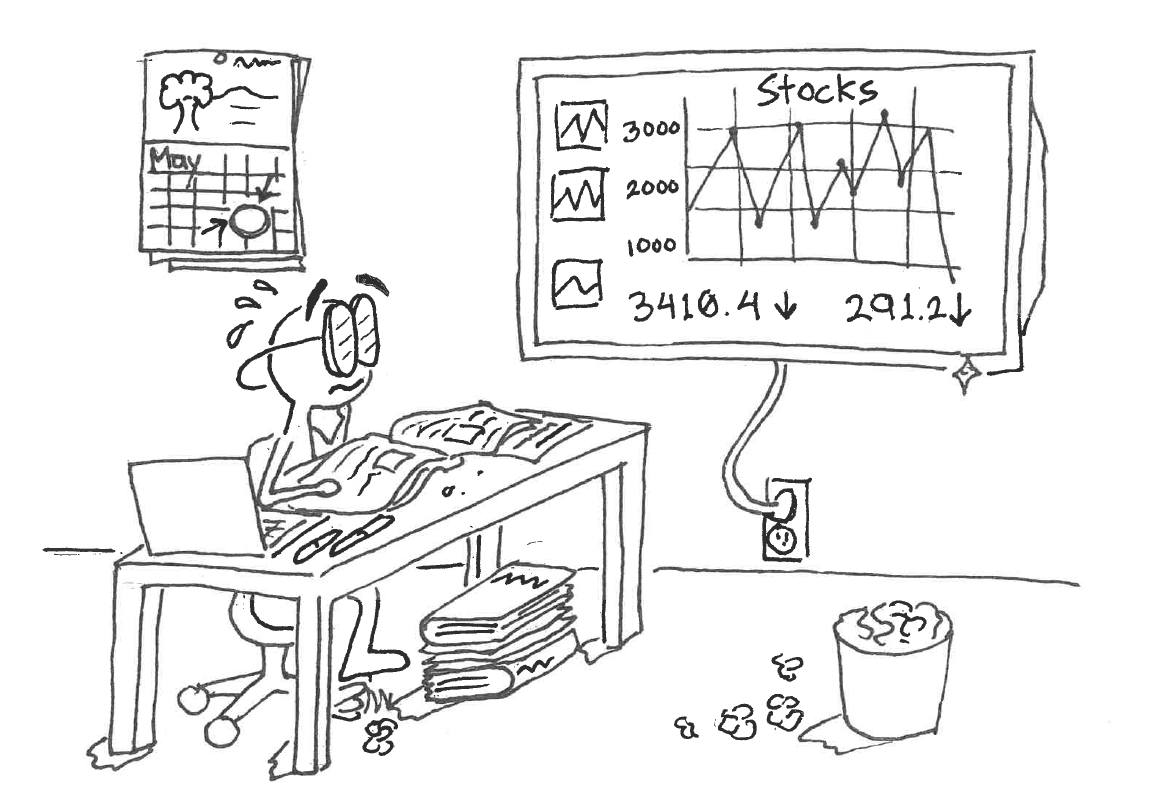
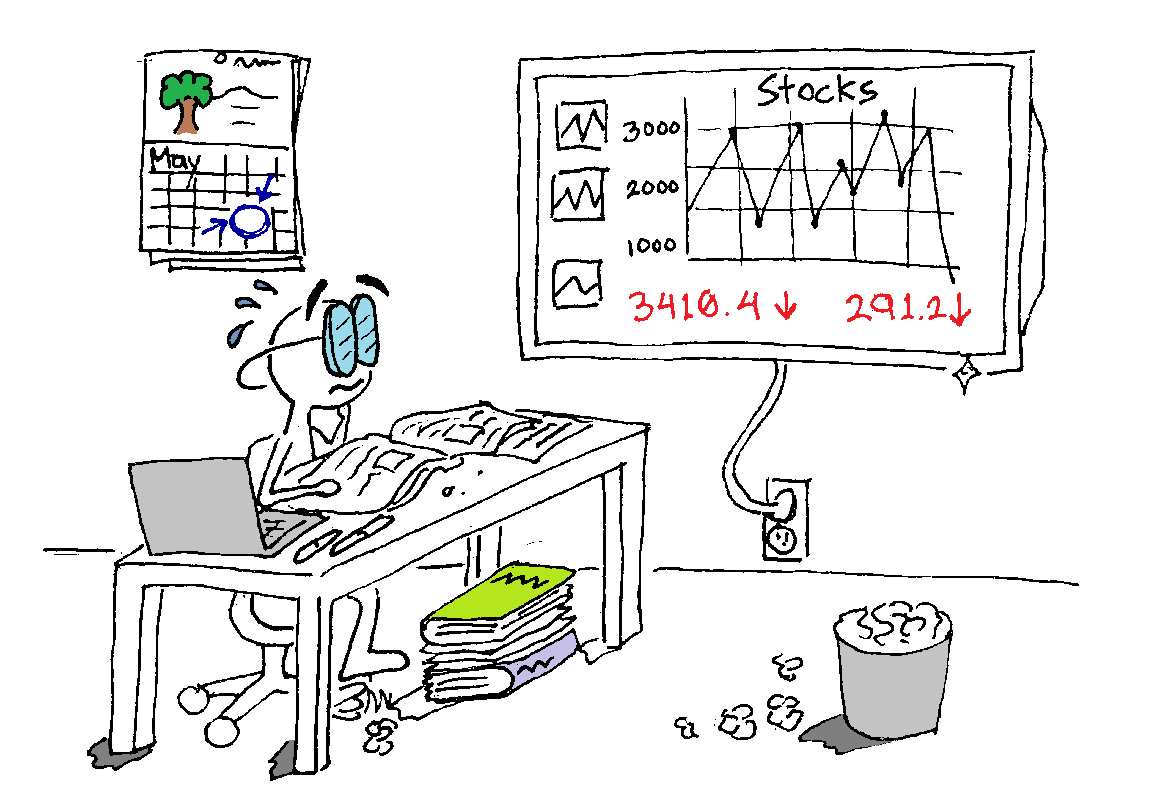
Converted images to black-and-white and gave them a little color as well

Changed region(s): [[0.0623, 0.0623, 0.7481, 0.9651], [0.4364, 0.0623, 0.9039, 0.5293], [0.5922, 0.7161, 0.9351, 0.934]]

diff --git a/EduSafe.WebSite/src/index.html b/EduSafe.WebSite/src/index.html
@@ -4,7 +4,7 @@
   <meta charset="utf-8">
   <title>Edu$afe</title>
   <base href="/">
-  <meta name="viewport" content="width=device-width, initial-scale=1.0">
+  <meta name="viewport" content="width=device-width, initial-scale=1.0, maximum-scale=1, user-scalable=no">
   <link rel="icon" type="image/x-icon" href="favicon.ico">
 </head>
 <body>

diff --git a/EduSafe.WebSite/src/app/styles/app-root.component.css b/EduSafe.WebSite/src/app/styles/app-root.component.css
@@ -9,7 +9,7 @@ h1 {
 
 h3 {
   color: #808080;
-  font-family: Helvetica, Arial, sans-serif;
+  font-family: Tahoma, Geneva, sans-serif;
   font-size: 120%;
   font-weight: bold;
   margin-right: 1em;

diff --git a/EduSafe.ConsoleApp/Scripts/ConvertToBlackWhiteScript.cs b/EduSafe.ConsoleApp/Scripts/ConvertToBlackWhiteScript.cs
@@ -1,0 +1,129 @@
+using System;
+using System.Collections.Generic;
+using System.Drawing;
+using System.Drawing.Imaging;
+using System.Linq;
+using EduSafe.ConsoleApp.Interfaces;
+
+namespace EduSafe.ConsoleApp.Scripts
+{
+    /// <summary>
+    /// This is totally and completely code I stole from searching online.
+    /// Thank you random kindness of strangers!
+    /// </summary>
+    public class ConvertToBlackWhiteScript : IScript
+    {
+        public List<string> GetArgumentsList()
+        {
+            return new List<string>
+            {
+                "[1] Enter path to the image to convert",
+            };
+        }
+
+        public string GetFriendlyName()
+        {
+            return "Black & White Converter Tool";
+        }
+
+        public bool GetVisibilityStatus()
+        {
+            return false;
+        }
+
+        public void RunScript(string[] args)
+        {
+            var extension = args[1].Split('.').ToList().Last();
+            var basePath = new string(args[1].Take(args[1].Length - extension.Length - 1).ToArray());
+
+            var image = Image.FromFile(args[1]) as Bitmap;
+            var newImage = ConvertBlackAndWhitePixelByPixel(image);
+            newImage.Save(basePath + " - (B & W)." + extension);
+        }
+
+        /// <summary>
+        /// https://stackoverflow.com/questions/2746103/what-would-be-a-good-true-black-and-white-colormatrix
+        /// </summary>
+        public static Bitmap ConvertBlackAndWhiteWithMatrix(Bitmap image)
+        {
+            var tempMatrix = new ColorMatrix
+            {
+                Matrix = new float[][]{
+                    new float[] { 0.299f, 0.299f, 0.299f, 0, 0 },
+                    new float[] { 0.587f, 0.587f, 0.587f, 0, 0 },
+                    new float[] { 0.114f, 0.114f, 0.114f, 0, 0 },
+                    new float[] { 0,      0,      0,      1, 0 },
+                    new float[] { 0,      0,      0,      0, 1 }
+                 }
+            };
+
+            return tempMatrix.Apply(image);
+        }
+
+        public static Bitmap ConvertBlackAndWhitePixelByPixel(Bitmap image)
+        {
+            var width = image.Width;
+            var height = image.Height;
+            var total = width * height;
+            var arr = new int[225];
+            var i = 1;
+            Color p;
+
+            //Grayscale
+            for (var y = 0; y < height; y++)
+            {
+                for (var x = 0; x < width; x++)
+                {
+                    Console.WriteLine(string.Format("Converting pixel {0} of {1}", i, total));
+                    p = image.GetPixel(x, y);
+                    var a = p.A;
+                    var r = p.R;
+                    var g = p.G;
+                    var b = p.B;
+                    var avg = (r + g + b) / 3;
+                    avg = avg < 128 ? 0 : 255;     // Converting gray pixels to either pure black or pure white
+                    image.SetPixel(x, y, Color.FromArgb(a, avg, avg, avg));
+                    i++;
+                }
+            }
+
+            return image;
+        }
+
+        /// <summary>
+        /// http://www.gutgames.com/post/Converting-Image-to-Black-and-White-in-C.aspx
+        /// Helper class for setting up and applying a color matrix
+        /// </summary>
+        private class ColorMatrix
+        {
+            /// <summary>
+            /// Matrix containing the values of the ColorMatrix
+            /// </summary>
+            public float[][] Matrix { get; set; }
+
+            /// <summary>
+            /// Applies the color matrix
+            /// </summary>
+            /// <param name="originalImage">Image sent in</param>
+            /// <returns>An image with the color matrix applied</returns>
+            public Bitmap Apply(Bitmap originalImage)
+            {
+                var newBitmap = new Bitmap(originalImage.Width, originalImage.Height);
+                using (var newGraphics = Graphics.FromImage(newBitmap))
+                {
+                    System.Drawing.Imaging.ColorMatrix NewColorMatrix = new System.Drawing.Imaging.ColorMatrix(Matrix);
+                    using (ImageAttributes Attributes = new ImageAttributes())
+                    {
+                        Attributes.SetColorMatrix(NewColorMatrix);
+                        newGraphics.DrawImage(originalImage,
+                            new Rectangle(0, 0, originalImage.Width, originalImage.Height),
+                            0, 0, originalImage.Width, originalImage.Height,
+                            GraphicsUnit.Pixel,
+                            Attributes);
+                    }
+                }
+                return newBitmap;
+            }
+        }
+    }
+}
